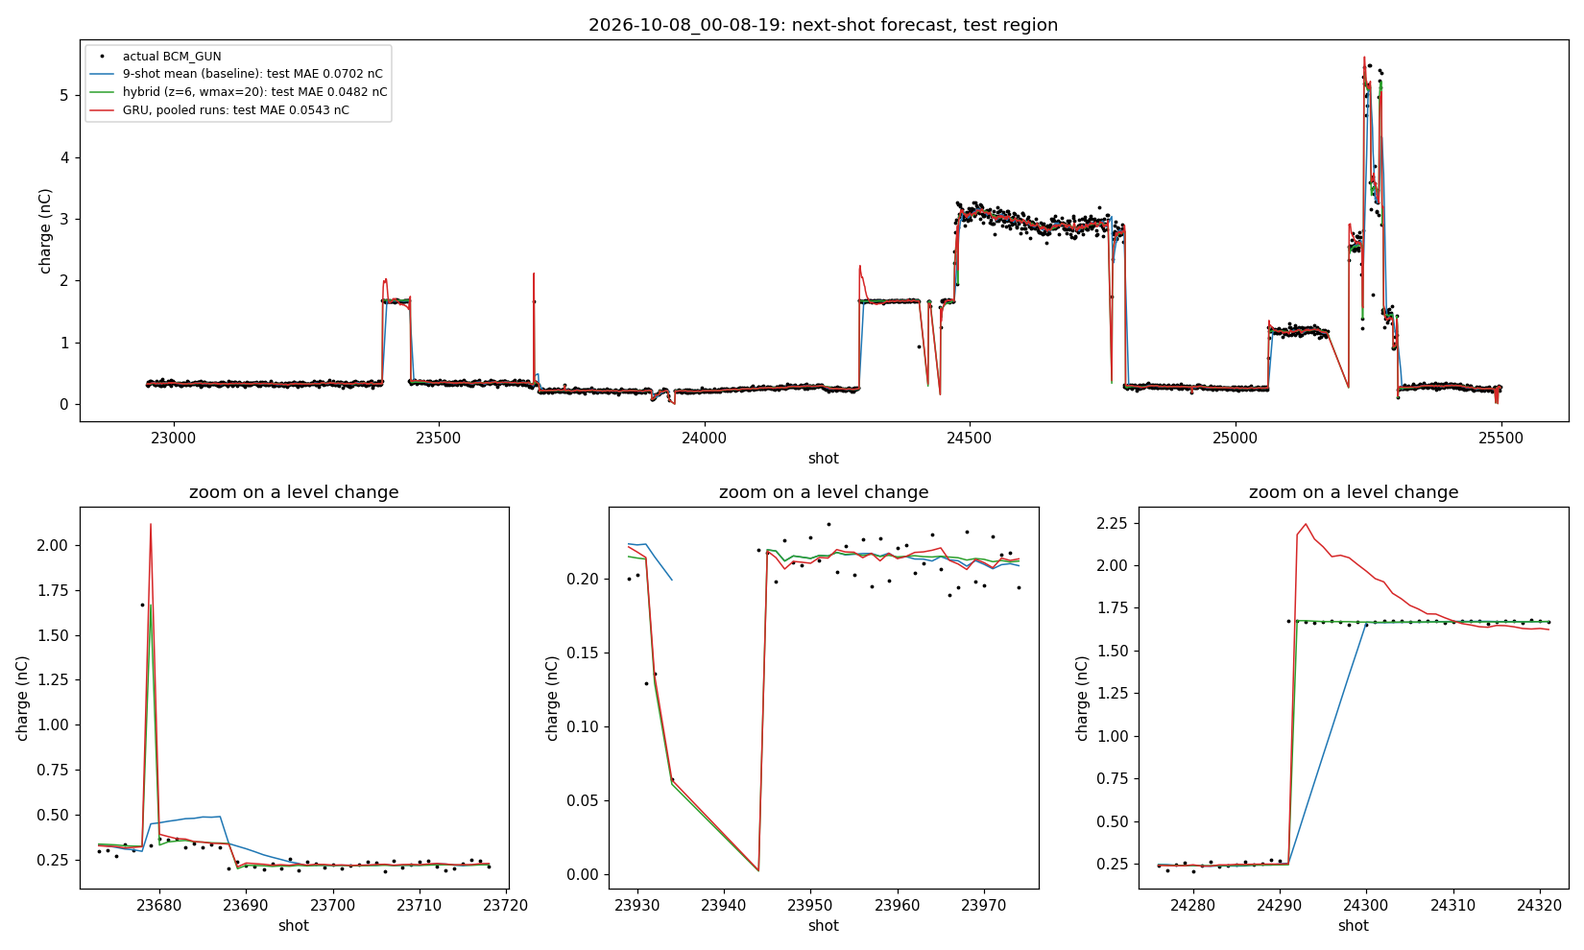
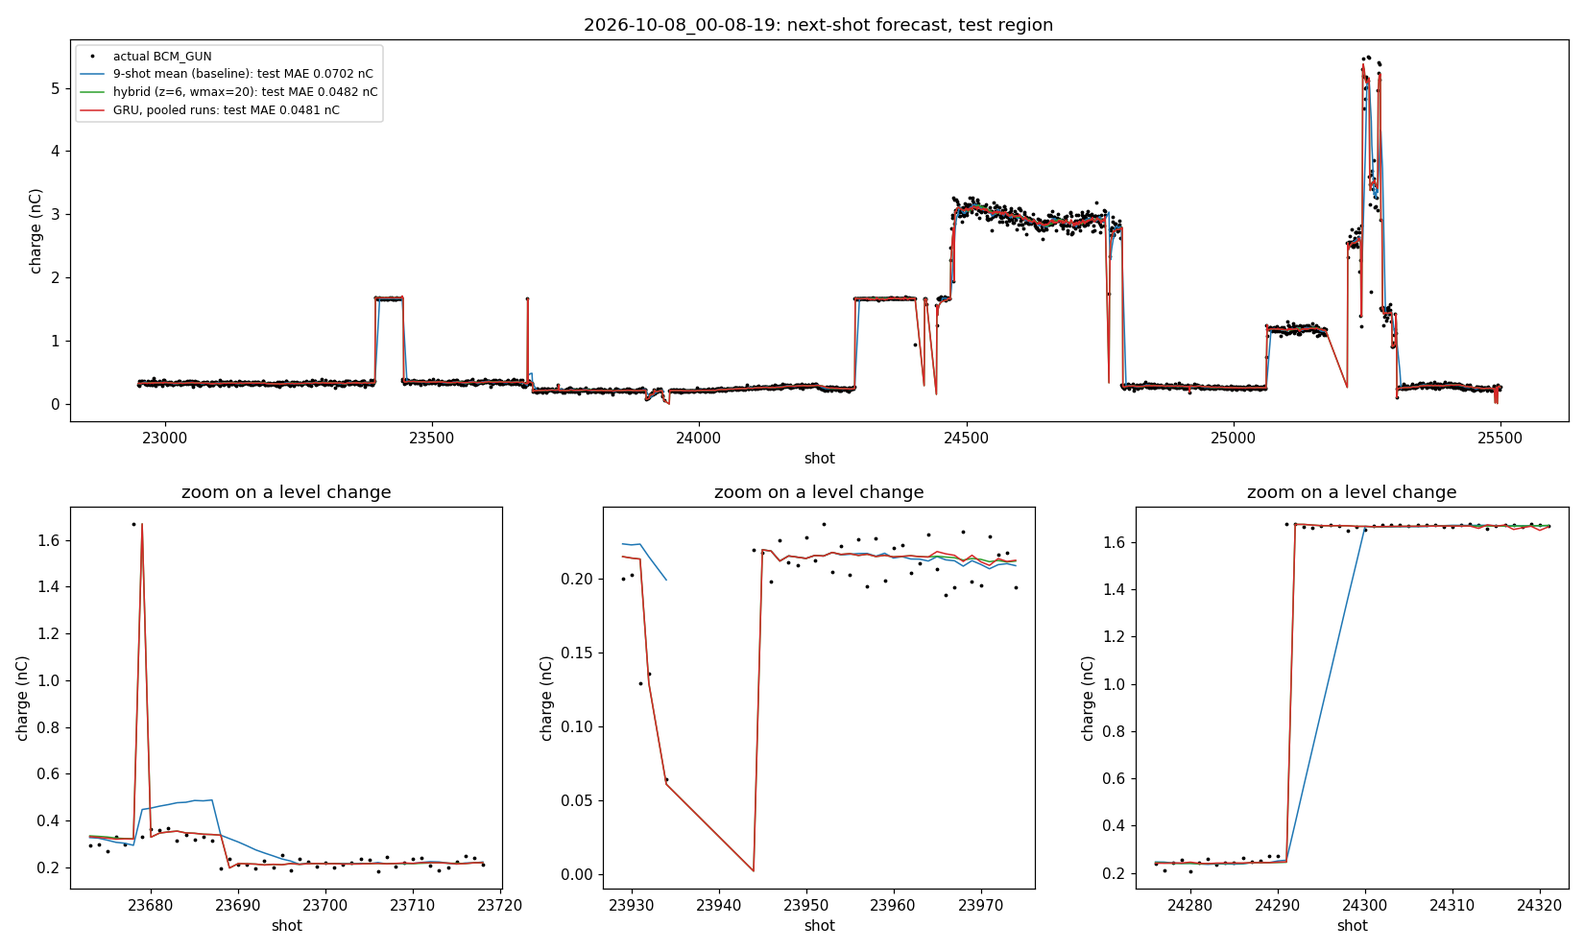
more gru

diff --git a/challenges/optimisation/fast-approximate/scripts/gru_forecast.py b/challenges/optimisation/fast-approximate/scripts/gru_forecast.py
@@ -1,15 +1,18 @@
 # Next-shot GRU forecaster (the sequence model of the Hard tier), compared with the hybrid and the combined forecaster.
-# Input: the last L shots, each with
-#   q      the charge if the hybrid used the shot (else 0, with skip = 1)
+# Like the ridge in combined_forecast.py, the GRU corrects the hybrid level on stable beam. Input: the last L shots of
+# the current segment (since the last level change), each with
+#   q      the charge if the hybrid used the shot (else 0, with skip = 1; steps before the segment are skipped too)
 #   level  the hybrid level after that shot
 #   lab, clex, step  the laser meters and the beam-loading-step charge
 # Charges are divided by the hybrid level after the newest shot, the meters by their window mean, so one model serves
-# 0.3 to 20 nC. Output: the next shot relative to that level (0 = the hybrid), trained with an L1 loss (the metric is
-# MAE) on every good next shot of each run's first 90 %; the last 10 % of those are the validation set for early
-# stopping. Each variant is trained with several seeds and their predictions averaged. Scored on each run's last 10 %
-# with score_forecast (h=1). To try more inputs, add channels in windows().
+# 0.3 to 20 nC; then each channel by its training std, clipped at CLIP. Output: the next shot relative to that level
+# (0 = the hybrid), trained with an L1 loss (the metric is MAE) on the stable shots of each run's first 90 %, the last
+# 10 % of those for early stopping; applied once the segment is AGE_MIN shots old. Each variant is trained with
+# several seeds and their forecasts averaged. Scored on each run's last 10 % with score_forecast (h=1).
+# To try more inputs, add channels in windows(). The notebook variables (klystron, gun field, magnets, temperatures,
+# humidities, laser scope) were screened and add nothing for the next shot (see the README).
 # Usage: python -I gru_forecast.py <tables dir> <out dir> <run> [<run> ...]
-import os, sys, time
+import os, sys, time, warnings
 sys.path.insert(0, os.path.dirname(os.path.abspath(__file__)))
 import numpy as np
 import pandas as pd
@@ -23,7 +26,10 @@ H = 32                  # GRU hidden size
 SEEDS = (0, 1, 2)
 BATCH, EPOCHS, PATIENCE, LR = 256, 40, 5, 1e-3
 CHANNELS = ['q', 'skip', 'level', 'lab', 'clex', 'step']
-CHARGE_ONLY = 3         # the first 3 channels
+LASER = ('lab', 'clex', 'step')                    # dropped in the charge-only variant
+CLIP = 5                # clip the standardised inputs (in training std): a laser step must not saturate the GRU
+STABLE_ONLY = True      # train on stable beam, apply once the segment is AGE_MIN old (as the ridge correction)
+VARIANTS = ('pooled runs', 'pooled runs, charge only', 'other runs only')
 
 
 def windows(r):
@@ -32,15 +38,24 @@ def windows(r):
     raw = {'q': np.where(used, r['df'][TARGET].values, np.nan), 'skip': (~used).astype(float), 'level': p,
            'lab': x.lab.values, 'clex': x.clex.values, 'step': x.step.values}
     W = {k: np.lib.stride_tricks.sliding_window_view(v, L) for k, v in raw.items()}     # row j = shots j .. j+L-1
+    # only the current segment (since the last level change), as in the ridge's features: a window reaching back to
+    # the old level never occurs in the stable training shots, and the GRU then predicts nonsense (+26 % on run 3)
+    seg = np.lib.stride_tricks.sliding_window_view(r['seg'].values, L)
+    old = seg != seg[:, -1:]
+    W = {k: np.where(old, 1.0 if k == 'skip' else np.nan, v) for k, v in W.items()}
     pn = p[L - 1:, None]
-    f = {'q': W['q'] / pn - 1, 'skip': W['skip'], 'level': W['level'] / pn - 1,
-         'lab': W['lab'] / W['lab'].mean(1, keepdims=True) - 1, 'clex': W['clex'] / W['clex'].mean(1, keepdims=True) - 1,
-         'step': (W['step'] - W['step'].mean(1, keepdims=True)) / pn}          # the step has an offset at low charge
+    with np.errstate(invalid='ignore', divide='ignore'), warnings.catch_warnings():
+        warnings.simplefilter('ignore', RuntimeWarning)                        # all-NaN windows (meter gaps)
+        f = {'q': W['q'] / pn - 1, 'skip': W['skip'], 'level': W['level'] / pn - 1,
+             'lab': W['lab'] / np.nanmean(W['lab'], 1, keepdims=True) - 1,
+             'clex': W['clex'] / np.nanmean(W['clex'], 1, keepdims=True) - 1,
+             'step': (W['step'] - np.nanmean(W['step'], 1, keepdims=True)) / pn}   # the step has an offset at low charge
     # clip: a feature gone wild (as the step did at 0.3 nC) must not dominate
     X = np.nan_to_num(np.stack([f[c] for c in CHANNELS], -1), nan=0, posinf=0, neginf=0).clip(-5, 5).astype(np.float32)
     y = r['q'].shift(-1).values[L - 1:] / p[L - 1:] - 1
     j = len(X) // 2
     assert np.isclose(X[j, -1, 0], (raw['q'][j + L - 1] / p[j + L - 1] - 1) if used[j + L - 1] else 0, atol=1e-6)
+    assert (X[old][:, 1] == 1).all() and (X[old][:, 0] == 0).all()           # steps before the segment are blanked
     return X, y
 
 
@@ -51,7 +66,7 @@ class GRU(torch.nn.Module):
         self.gru, self.out = torch.nn.GRU(len(scale), H, batch_first=True), torch.nn.Linear(H, 1)
 
     def forward(self, X):
-        return self.out(self.gru(X / self.scale)[0][:, -1]).squeeze(-1)
+        return self.out(self.gru((X / self.scale).clamp(-CLIP, CLIP))[0][:, -1]).squeeze(-1)
 
 
 def predict(model, X):
@@ -60,20 +75,22 @@ def predict(model, X):
 
 
 def fit(R, runs, c, seed):
-    # train on the good next shots of the runs' first 90 %, early-stop on the last 10 % of those
+    # train on the good next shots of the runs' first 90 % (or the stable ones), early-stop on the last 10 % of those
     tr, va = [], []
     for run in runs:
         r = R[run]
         shot = r['df'].index.values[L - 1:]
-        ok = np.flatnonzero(np.isfinite(r['wy']) & (shot + 1 < cut_shot(r['df'])))
+        ok = r['fit'][L - 1:] & r['used'][L - 1:] if STABLE_ONLY else np.isfinite(r['wy']) & (shot + 1 < cut_shot(r['df']))
+        ok = np.flatnonzero(ok)
         k = int(0.9 * len(ok))
-        tr.append((r['wX'][ok[:k], :, :c], r['wy'][ok[:k]])); va.append((r['wX'][ok[k:], :, :c], r['wy'][ok[k:]]))
+        tr.append((r['wX'][ok[:k]][:, :, c], r['wy'][ok[:k]])); va.append((r['wX'][ok[k:]][:, :, c], r['wy'][ok[k:]]))
     Xt, yt = torch.from_numpy(np.concatenate([a for a, _ in tr])), torch.from_numpy(np.concatenate([b for _, b in tr]))
     Xv, yv = np.concatenate([a for a, _ in va]), np.concatenate([b for _, b in va])
     torch.manual_seed(seed)
     model = GRU(Xt.std((0, 1)).clamp(min=1e-6))
+    torch.nn.init.zeros_(model.out.weight); torch.nn.init.zeros_(model.out.bias)       # starts as the hybrid ...
     opt = torch.optim.Adam(model.parameters(), LR)
-    best, state, wait = np.inf, None, 0
+    best, state, wait = np.mean(np.abs(yv)), {k: t.clone() for k, t in model.state_dict().items()}, 0   # ... and may stay it
     for epoch in range(EPOCHS):
         model.train()
         for b in torch.randperm(len(Xt)).split(BATCH):
@@ -97,10 +114,10 @@ def main():
     R = {run: prepare(tables, run) for run in runs}
     for r in R.values():
         r['wX'], r['wy'] = windows(r)
-    variants = {'GRU, pooled runs': (lambda run: runs, len(CHANNELS)),
-                'GRU, pooled runs, charge only': (lambda run: runs, CHARGE_ONLY)}
-    if len(runs) > 1:
-        variants['GRU, other runs only'] = (lambda run: [o for o in runs if o != run], len(CHANNELS))
+    every, charge = list(range(len(CHANNELS))), [i for i, k in enumerate(CHANNELS) if k not in LASER]
+    variants = {'GRU, pooled runs': (lambda run: runs, every), 'GRU, pooled runs, charge only': (lambda run: runs, charge),
+                'GRU, other runs only': (lambda run: [o for o in runs if o != run], every)}
+    variants = {k: v for k, v in variants.items() if k[5:] in VARIANTS and (len(runs) > 1 or 'other' not in k)}
     preds = {}                                   # (variant, run) -> per-seed next-shot forecasts
     for name, (src, c) in variants.items():
         for use in dict.fromkeys(tuple(src(run)) for run in runs):
@@ -113,7 +130,10 @@ def main():
                     if tuple(src(run)) == use:
                         p = R[run]['p'].values
                         g = p.copy()                 # before the first full window: the hybrid
-                        g[L - 1:] = p[L - 1:] * (1 + predict(model, R[run]['wX'][:, :, :c]))
+                        # off when the newest shot was skipped (e.g. the BCM reads far below the step charge): windows
+                        # of skipped shots never occur in the stable training shots (-13 % on run 3's 1.67 nC plateau)
+                        on = R[run]['on'][L - 1:] & R[run]['used'][L - 1:] if STABLE_ONLY else 1
+                        g[L - 1:] = p[L - 1:] * (1 + on * predict(model, R[run]['wX'][:, :, c]))
                         preds.setdefault((name, run), []).append(g)
 
     ridge = RidgeCV(alphas=ALPHAS).fit(pd.concat([R[u]['F'][R[u]['fit']] for u in runs]),
@@ -134,6 +154,7 @@ def main():
             rows.append({'run': run, 'forecast': name, 'test MAE': score(r, v), 'seed std': spread.get(name, np.nan),
                          'stable': np.nanmean(e[st]), 'after change': np.nanmean(e[ch]) if ch.any() else np.nan})
         r['cands'] = cands
+    np.savez(os.path.join(out, 'gru_forecasts.npz'), **{f'{run}|{k}': v for run, r in R.items() for k, v in r['cands'].items()})
     T = pd.DataFrame(rows)
     T['dMAE %'] = T.groupby('run')['test MAE'].transform(lambda s: 100 * (1 - s / s.iloc[0]))
     pd.set_option('display.width', 250)

diff --git a/challenges/optimisation/fast-approximate/scripts/screen_variables.py b/challenges/optimisation/fast-approximate/scripts/screen_variables.py
@@ -1,0 +1,88 @@
+# Screen the notebook variables (klystron, gun field, magnets, temperatures, humidities, laser scope) for the next shot:
+# (1) same-shot r with the charge jitter (alignment check, replicates the notebooks),
+# (2) r of their causal deviations (1/9/50-shot segment mean minus the 200-shot one) with the hybrid's next-shot
+#     relative error on stable shots,
+# (3) leave-one-run-out ridge: stable test MAE with the combined features plus each group.
+# The scope is tried at its stamp alignment and one pulse either side: at -1 it is the NEXT shot's laser (a leak).
+# Usage: python -I screen_variables.py <tables dir>
+import os, sys
+sys.path.insert(0, os.path.dirname(os.path.abspath(__file__)))
+import numpy as np, pandas as pd
+from sklearn.linear_model import RidgeCV
+from combined_forecast import prepare, seg_mean, ALPHAS
+from nbfuncs import TARGET, scored_shots
+from pulses import align, pulse_ids, rf_shift, stamp_shift
+
+T = sys.argv[1]
+RUNS = ['2026-10-09_07-46-07', '2026-10-08_21-11-47', '2026-10-08_00-08-19']
+R = {}
+for run in RUNS:
+    r = prepare(T, run); df = r['df']
+    p = os.path.join(T, run)
+    d, L = np.load(p + '_rf.npz'), np.load(p + '_laser.npz')
+    pid = pulse_ids(d['t'], d['chunk'])
+    V = {}
+    rf = lambda k: align(d[k], pid, rf_shift(d[k + '_off']))
+    for k in ('PKI15A', 'PKI15P', 'PKR15A'):
+        V[k] = rf(k)[:, 300:640].mean(1)
+    P = rf('PGLA'); V['gun field'] = P[:, 400:600].mean(1) - P[:, :40].mean(1)
+    sc, t = L['scope'].astype(float), L['scope_times'][0]
+    clean = sc - sc[:, t < 5].mean(1, keepdims=True)
+    tmpl = np.nanmean(clean, 0) * ((t > 5.6) & (t < 39.8))
+    amp = clean @ tmpl / (tmpl @ tmpl)
+    bad = np.r_[False, np.all(sc[1:] == sc[:-1], 1)] | ~L['scope_acquired'].astype(bool) | L['scope_saturated'].astype(bool)
+    amp[bad] = np.nan
+    for k in (-1, 0, 1):
+        V[f'scope amp (stamp{k:+d})'] = align(amp, pid, stamp_shift(L['scope_off']) + k)
+    for k in ('DHG0130', 'SNH_110', 'SNI_120', 'TEMP1', 'TEMP2', 'TEMP3', 'TEMP4', 'HUMID1', 'HUMID2', 'HUMID3', 'HUMID4'):
+        V[k] = df[k].values.astype(float)
+    V['lab'], V['clex'], V['step'] = r['x'].lab.values, r['x'].clex.values, r['x'].step.values
+    r['V'] = pd.DataFrame(V, df.index).replace([np.inf, -np.inf], np.nan)
+    R[run] = r
+    print(run, 'scope bad', bad.mean().round(3), flush=True)
+
+def det(v):  # analysis-only detrend (centred), for the same-shot check
+    return v - v.rolling(51, center=True, min_periods=10).mean()
+
+rows = []
+for run, r in R.items():
+    st = r['stable']
+    qj = det(r['q'])
+    for k, v in r['V'].items():
+        vj = det(v)
+        m = st & vj.notna() & qj.notna()
+        # next-shot: causal deviation of the variable vs the hybrid's next-shot relative error, on fit rows
+        dev = {kk: seg_mean(v.interpolate(limit_direction='both'), r['seg'], kk) - seg_mean(v.interpolate(limit_direction='both'), r['seg'], 200) for kk in (1, 9, 50)}
+        f = r['fit'] | (st.shift(-1, fill_value=False).values & r['on'] & ~r['train'])
+        y = pd.Series(r['y'], v.index)
+        rows.append({'run': run[:13], 'var': k, 'same-shot r': np.corrcoef(vj[m], qj[m])[0, 1] if m.sum() > 50 else np.nan,
+                     **{f'next r dev{kk}': (lambda a, b: np.corrcoef(a, b)[0, 1])(*(s[f & np.isfinite(y.values) & dev[kk].notna().values] for s in (dev[kk], y))) for kk in (1, 9, 50)}})
+pd.set_option('display.width', 250); pd.set_option('display.max_rows', 200)
+print(pd.DataFrame(rows).pivot_table(index='var', columns='run', values=['same-shot r', 'next r dev1', 'next r dev9', 'next r dev50']).round(3).to_string())
+
+# leave-one-run-out ridge on stable shots: base features + each group's deviations, standardised per run's train std
+GROUPS = {'base': [], 'klystron': ['PKI15A', 'PKI15P', 'PKR15A'], 'gun field': ['gun field'], 'scope': ['scope amp (stamp+0)'],
+          'magnets': ['DHG0130', 'SNH_110', 'SNI_120'], 'temp': ['TEMP1', 'TEMP2', 'TEMP3', 'TEMP4'],
+          'humid': ['HUMID1', 'HUMID2', 'HUMID3', 'HUMID4']}
+GROUPS['all'] = sum(GROUPS.values(), [])
+def feats(r, names):
+    F = r['F'].copy()
+    for k in names:
+        v = r['V'][k].interpolate(limit_direction='both')
+        sd = v[r['train']].diff().std() or 1
+        for kk in (1, 9, 50):
+            F[f'{k}{kk}'] = ((seg_mean(v, r['seg'], kk) - seg_mean(v, r['seg'], 200)) / sd).clip(-10, 10)
+    return F.fillna(0)
+out = []
+for g, names in GROUPS.items():
+    for test in RUNS:
+        tr = [u for u in RUNS if u != test]
+        m = RidgeCV(alphas=ALPHAS).fit(pd.concat([feats(R[u], names)[R[u]['fit']] for u in tr]), np.concatenate([R[u]['y'][R[u]['fit']] for u in tr]))
+        r = R[test]
+        sh = scored_shots(r['df']); yq = r['df'].loc[sh, TARGET].values
+        pred = pd.Series(r['p'].values * (1 + r['on'] * m.predict(feats(r, names))), r['df'].index).shift(1).reindex(sh).values
+        st = (r['stable'] & ~r['train']).reindex(sh).values
+        out.append({'group': g, 'test run': test[:13], 'stable MAE': np.nanmean(np.abs(yq - pred)[st])})
+O = pd.DataFrame(out).pivot(index='group', columns='test run', values='stable MAE')
+print('\nstable test MAE (nC), correction trained on the other two runs\n', O.round(5).to_string())
+print('\nchange vs base (%)\n', (100 * (O / O.loc['base'] - 1)).round(2).to_string())

diff --git a/challenges/optimisation/fast-approximate/scripts/combined_forecast.py b/challenges/optimisation/fast-approximate/scripts/combined_forecast.py
@@ -59,7 +59,7 @@ def prepare(tables, run):
     # train the correction on stable beam only: during scans the charge ramps without a restart, and learning to chase
     # the last shots there adds noise on stable beam. (The label looks ahead, but only selects training rows.)
     fit = train & (df.index + 1 < cut) & np.isfinite(y) & stable.shift(-1, fill_value=False).values & on
-    return dict(df=df, p=p, F=F, y=y, fit=fit, on=on, jump=jump, stable=stable, train=train, q=q, med=med, x=x,
+    return dict(df=df, p=p, F=F, y=y, fit=fit, on=on, jump=jump, stable=stable, train=train, q=q, med=med, x=x, seg=seg,
                 used=np.asarray(used, bool))
 
 

diff --git a/challenges/optimisation/fast-approximate/scripts/README.md b/challenges/optimisation/fast-approximate/scripts/README.md
@@ -25,7 +25,8 @@ PY=python3 scripts/run_pipeline.sh 2026-10-09_07-46-07 data/h5 data/tables resul
 | `forecasters.py` | `hybrid()`: the level-change-aware mean, shared by the two scripts below |
 | `hybrid_forecast.py` | Tunes and scores the hybrid on one run |
 | `combined_forecast.py` | The hybrid plus a ridge correction, trained across runs (below); run it after `run_pipeline.sh` |
-| `gru_forecast.py` | GRU sequence model on the last 64 shots, trained across runs (below); needs PyTorch |
+| `gru_forecast.py` | GRU sequence model: a stable-beam correction of the hybrid from the last 64 shots, trained across runs (below); needs PyTorch |
+| `screen_variables.py` | Tests whether the notebook variables (klystron, gun field, magnets, climate, laser scope) help the next-shot forecast |
 
 Run the scripts with `python -I`. The tables match the ones made from the pickles, except that the camera
 columns are left out.
@@ -220,52 +221,82 @@ python3 -I scripts/combined_forecast.py data/tables results/combined 2026-10-09_
 
 ```bash
 python3 -I scripts/gru_forecast.py data/tables results/gru 2026-10-09_07-46-07 2026-10-08_21-11-47 2026-10-08_00-08-19
+python3 -I scripts/screen_variables.py data/tables      # the notebook-variable screen below
 ```
 
-**How it works:**
-- **Input:** the last 64 shots, each with six channels:
-  - charge (0 where the hybrid skipped the shot, plus a skip flag);
+**How it works:** like the ridge in the combined forecaster, the GRU corrects the hybrid level on stable beam.
+- **Input:** the last 64 shots of the current segment (since the last level change), with six channels:
+  - charge (0 where the hybrid skipped the shot, plus a skip flag; steps before the segment count as skipped);
   - hybrid level;
   - lab and clex laser meters;
   - beam-loading-step charge.
-- **Scaling:** charges are divided by the hybrid level at the newest shot, and the laser meters by their window mean.
-  Each channel is then divided by its training std.
-- **Output:** the next shot relative to the hybrid level, so 0 means "same as the hybrid".
+- **Scaling:** charges are divided by the hybrid level at the newest shot, and the meters by their window mean.
+  Each channel is then divided by its training std and clipped at ±5.
+- **Output:** the next shot relative to the hybrid level. The output layer starts at zero, so the untrained GRU *is*
+  the hybrid.
 - **Model:** one GRU layer with 32 hidden units, then a linear layer.
 - **Training:**
   - L1 loss, because the metric is MAE.
-  - Trained on every good next shot of the first 90 % of the runs, early-stopped on the last 10 % of those.
+  - Trained on the stable shots of the first 90 % of the runs, early-stopped on the last 10 % of those.
+  - The untrained (= hybrid) state is an early-stopping candidate too, so a fit that never beats the hybrid stays
+    the hybrid.
   - 3 seeds per variant, with their forecasts averaged.
-- **Run time:** about 1 min per fit on 4 CPU threads (12 threads is 9× slower), about 15 min in total.
+- **When it applies:** once the segment is ≥ 20 shots old and the newest shot was used by the hybrid.
+- **Run time:** ~1 min per fit on 4 CPU threads (12 threads is 9× slower), ~20 min in total.
 - **To try more inputs, add channels in `windows()`.**
 
 | Next-shot test MAE (nC) | run 1 (09_07) | run 2 (08_21) | run 3 (08_00) |
 |---|---|---|---|
 | 9-shot mean (baseline) | 0.505 | 0.1442 | 0.0702 |
-| hybrid (z = 6, wmax = 20) | 0.348 (−31 %) | 0.1414 (−2 %) | 0.0482 (−31 %) |
-| **combined (hybrid + ridge)** | **0.341 (−33 %)** | **0.1396 (−3 %)** | **0.0480 (−32 %)** |
-| GRU, pooled runs, charge only | 0.350 (−31 %) | 0.1416 (−2 %) | 0.0506 (−28 %) |
-| GRU, pooled runs, all inputs | 0.366 (−28 %) | 0.1411 (−2 %) | 0.0543 (−23 %) |
-| GRU, other runs only, all inputs | 0.410 (−19 %) | 0.1414 (−2 %) | 0.0575 (−18 %) |
-| GRU, all inputs, not standardised (first try) | 0.351 (−31 %) | 0.1413 (−2 %) | 0.0491 (−30 %) |
+| hybrid (z = 6, wmax = 20) | 0.348 (−31.2 %) | 0.1414 (−1.9 %) | 0.0482 (−31.3 %) |
+| combined (hybrid + ridge), trained on all 3 runs | 0.3411 (−32.5 %) | 0.1396 (−3.2 %) | 0.0480 (−31.6 %) |
+| **GRU, pooled runs** | **0.3411 (−32.5 %)** | **0.1401 (−2.8 %)** | **0.0481 (−31.6 %)** |
+| GRU, pooled runs, charge only | 0.3425 (−32.2 %) | 0.1405 (−2.5 %) | 0.0480 (−31.7 %) |
+| GRU, other runs only (frozen test) | 0.3412 (−32.5 %) | 0.1404 (−2.6 %) | 0.0481 (−31.5 %) |
+| *first GRU (all shots, whole window, no clip)* | *0.366* | *0.1411* | *0.0543* |
 
-Seed-to-seed spread of the test MAE: 0.0002–0.011 nC, and 0.09 nC for "other runs only" on run 1.
+Seed-to-seed spread of the test MAE: ≤ 0.0011 nC. Every fit now beats the hybrid on validation (e.g. 4.62–4.64 %
+against 4.66 % L1).
 
-- **The GRU satisfies the Hard-tier rule** (a sequence model that beats the 9-shot mean on a chronological split).
-  It does not beat the hybrid it starts from.
-- **On validation it only matches the hybrid**, in every fit (5.27–5.28 % L1 against 5.27 % for the hybrid
-  alone). There is little sequence structure left to learn:
-  - the stable-beam jitter is nearly white (lag-1 autocorrelation ~0.14);
-  - level changes have no warning in the laser data;
-  - the slow laser-driven drift is the ~2–3 % that the ridge correction already takes.
-- **Where it loses is just after step-ups, where it overshoots.** After 0.25 → 1.67 nC it predicts 2.2 nC and decays
-  back over ~20 shots (`gru_<run>.png`, zooms).
-  - The laser channels drive it: a 4 → 11 uJ jump, divided by a training std of ~0.03, saturates the GRU.
-  - The charge-only variant, and the first try without standardisation, overshoot much less.
-- **"Other runs only" is weak on run 1.** Runs 2 and 3 contain no 10 → 19 nC jumps to learn from.
-- **Things to try:**
-  - clip the standardised inputs (at ±5 std);
-  - train on stable shots only, as the ridge correction does;
-  - a longer window (the ridge's strongest feature is a 200-shot mean);
-  - use the GRU as a correction on top of the combined forecaster.
+- **The GRU now matches the combined forecaster on all three runs**, and transfers to an unseen run. It satisfies
+  the Hard-tier rule: a sequence model that beats the 9-shot mean on a chronological split.
+- **What made the difference.** Each fix came from looking at where the GRU lost:
 
+| Step | Run 1 | Run 2 | Run 3 |
+|---|---|---|---|
+| first GRU | 0.366 | 0.1411 | 0.0543 |
+| + clip the standardised inputs (laser steps saturated the GRU) | 0.358 | 0.1412 | 0.0501 |
+| + train on stable shots only, apply after 20 shots in a segment | 0.344 | 0.1400 | 0.0504 |
+| + window limited to the current segment | 0.3415 | 0.1401 | 0.0503 |
+| + off when the newest shot was skipped; zero-initialised output | 0.3411 | 0.1401 | 0.0481 |
+
+  (pooled-runs variant; a 50/200-shot segment-mean channel was also tried and made no difference.)
+- **The run-3 plateau.** At shots 23394–23445 the BCM reads a steady 1.67 nC, while the beam-loading step says
+  5.4 nC and the laser 11 uJ (about 5 nC earlier in the run). The BCM is probably wrong there, but the official score
+  uses it.
+  - The hybrid's stuck-BCM check skips these shots and holds 1.68, which happens to match.
+  - The GRU saw a window of skipped shots, never seen in training, and predicted 13 % low until it was switched off
+    there.
+
+### Do the notebook variables help? (`screen_variables.py`, `results/gru/screen_variables.txt`)
+
+- **Same shot, they correlate as the notebooks found.** Against the charge jitter: lab 0.62–0.65, clex 0.57–0.63,
+  laser scope 0.36–0.45, step 0.28–0.37. Klystron, gun field, magnets, temperatures and humidities are all |r| < 0.09.
+- **For the next shot, none of them helps.** Added to the correction, each group changes the stable-beam MAE on an
+  unseen run by less than 0.5 %. All of them together make run 3 1.4 % worse.
+  - The jitter is laser-driven, and the next pulse's laser energy is not predictable from earlier pulses.
+  - The slow variables (temperature, humidity, magnets) do not lead the charge drift by enough to matter.
+- **A trap:** the laser scope shifted one pulse early correlates 0.17–0.29 with the next-shot error, twice the lab
+  meter. That is because it is the next shot's laser reading, which is future data. Its same-shot r peaks at the stamp
+  alignment, which confirms the stamp alignment. Any new variable that suddenly predicts well should get this check.
+
+### Where the error is (summed |error|, combined forecaster, test regions)
+
+| | stable beam | 20 shots after a change | other (unsettled beam) |
+|---|---|---|---|
+| run 1 | 62 % | 19 % (66 of the 71 nC in the first 3 shots of a new level) | 19 % |
+| run 2 | 100 % | – | – |
+| run 3 | 26 % | 40 % | 33 % |
+
+- On stable beam the remaining error is white, laser-driven jitter.
+- After a change, nearly all of the error is in the first shot or two. Changes come without warning in the data.
